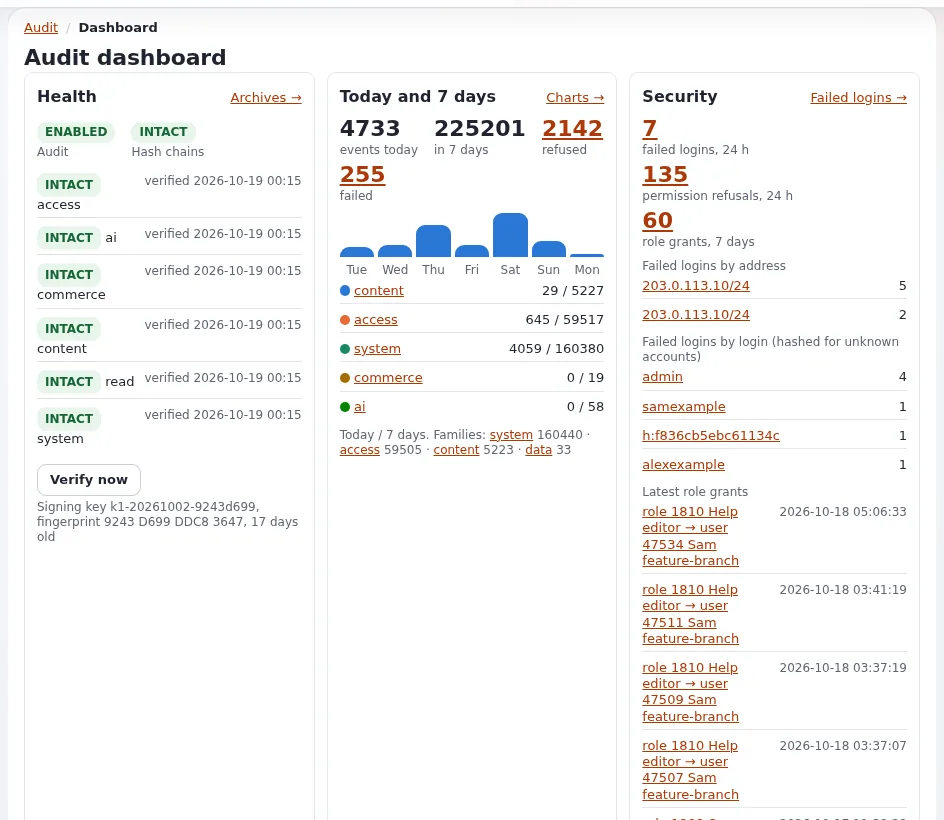
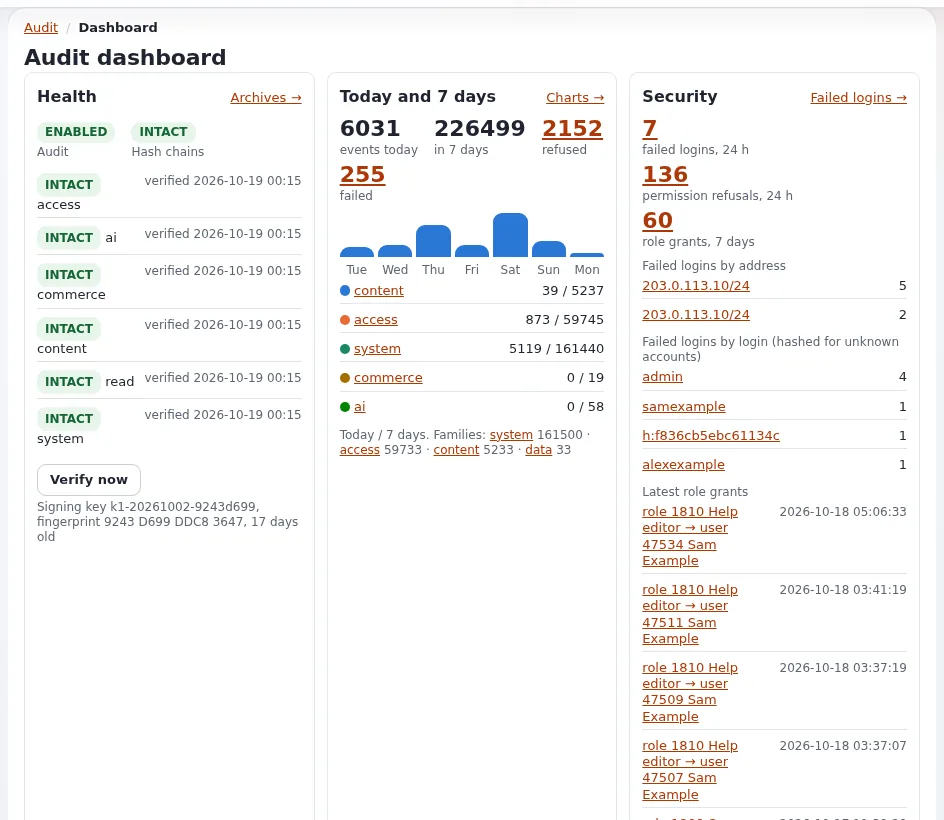
Updated: More screenshots for creator, designer, hosting and security help pages
Fifteen new screenshots: the RAD datatype and workflow event wizards, the
extensions on the About page, shared layouts, the help center, an item's
title, system information and caches for hosts, the public site's
breadcrumb, an item's full view, the sign-in pages of the administration
and the editor, and the audit trail for security hardening, and the dark
header for the admin tour. The audit trail screenshot of the hosting
pages is retaken with the names of test accounts shown as a neutral
example.

diff --git a/doc/help/security-hardening.md b/doc/help/security-hardening.md
@@ -71,6 +71,8 @@ Defending well means making all of these cheap to refuse and expensive to succee
 **The risk.** `/user/login` and `/admin/user/login` are the most attacked URLs of any site. Leaked passwords from other
 services work wherever people reuse them.
 
+![The sign-in page of the administration, the page brute force attacks aim at](images/help/sign-in-hardening.webp)
+
 **Built in.** Passwords are stored as bcrypt hashes (`HashType=php_default`). The sign-in costs the same for an unknown
 login as for a wrong password, and **Forgot your password?** answers the same for every address, so neither reveals
 which accounts exist. The audit trail's alert rules `brute_force` (20 failures from one network in 5 minutes) and
@@ -223,6 +225,8 @@ refused, as are `javascript:` and `data:` targets and the usual encoding tricks.
 
 **The risk.** A known vulnerability in an old release of the kernel, an extension, a Composer dependency, PHP or the
 database; a tampered file on the server.
+
+![The version of the installation at the top of the About page, the first thing to compare with the latest release](images/help/about-page-security.webp)
 
 **Built in.** Releases are immutable tags on Packagist and GitHub, with changelogs. **Setup** > **Upgrade check**
 compares every file with the release's `share/filelist.md5` ("Check file consistency") and the schema with the
@@ -382,6 +386,8 @@ for every rule is in the library's `docs/use-cases/exponential.md`.
 ## Watching: logs, the request classifier and the audit trail
 
 Hardening without watching only delays the moment you learn of an attack.
+
+![The audit trail: who did what and when, with filters by actor, action and time](images/help/audit-dashboard-security.webp)
 
 | Source | What it records | Where to read it |
 |---|---|---|

diff --git a/doc/help/creators/website-creators/site-packages-and-shipped-themes.md b/doc/help/creators/website-creators/site-packages-and-shipped-themes.md
@@ -13,6 +13,8 @@ This page is for website creators who want to know what they get from the instal
 package** is the starting point of a new installation: content classes, a design, content, roles and settings in one
 package. A **theme** is the design part, an extension you can keep using after the install.
 
+![The About page: the extensions of the installation, the shipped themes among them](../../images/creators/about-extensions.webp)
+
 ## Contents
 
 1. [What a site package contains](#what-a-site-package-contains)

diff --git a/doc/help/creators/website-creators/shared-header-and-footer.md b/doc/help/creators/website-creators/shared-header-and-footer.md
@@ -14,6 +14,8 @@ A layout marked **shared** is not mapped to pages by a rule; it exists to be bor
 be **linked** to one of its zones and then shows that layout's blocks instead of its own
 ([Shared layouts and linked zones](../../../bc/6.0/LAYOUTS.md#shared-layouts-and-linked-zones)).
 
+![Shared layouts with the Header / Footer layout outlined, the layout other layouts link their header and footer zones to](../../images/creators/shared-layout-header.webp)
+
 ## Contents
 
 1. [Why shared layouts](#why-shared-layouts)

diff --git a/doc/help/creators/website-creators/your-first-site-step-by-step.md b/doc/help/creators/website-creators/your-first-site-step-by-step.md
@@ -14,6 +14,8 @@ empty directory to a site with your own content and one changed template. Each s
 check. It uses the defaults on purpose: SQLite (no database server), the default site package and Velocity. For a
 real site, read [Choosing an install method](choosing-an-install-method.md) afterwards.
 
+![The help center in the administration, where this page and the rest of the website creators' path are](../../images/creators/help-dashboard-first-site.webp)
+
 ## Contents
 
 1. [Before you start](#before-you-start)

diff --git a/doc/help/creators/app-creators/writing-a-workflow-event-type.md b/doc/help/creators/app-creators/writing-a-workflow-event-type.md
@@ -13,6 +13,8 @@ This page is for application creators who add a step administrators can put into
 on publish, check a field before publishing, wait for an outside approval. **Setup > RAD > Workflow event extension**
 (`/setup/workflowevent`) writes a working skeleton ([RAD tools](rad-tools.md)).
 
+![Setup, RAD, the workflow event wizard, which writes the skeleton of an event type](../../images/creators/workflow-event-wizard.webp)
+
 ## Contents
 
 1. [Files and registration](#files-and-registration)

diff --git a/doc/help/creators/website-creators/seo-basics.md b/doc/help/creators/website-creators/seo-basics.md
@@ -12,6 +12,8 @@ type: help
 This page is for website creators who want a site search engines understand. Most of what matters is already built in
 or one extension away; this page lists it as a checklist and points to the page that explains each item.
 
+![An article's page in the administration: its title, which also makes its address and the page title in search results](../../images/creators/seo-url-alias.webp)
+
 ## Contents
 
 1. [What Exponential gives you](#what-exponential-gives-you)

diff --git a/doc/help/creators/app-creators/extension-anatomy.md b/doc/help/creators/app-creators/extension-anatomy.md
@@ -13,6 +13,8 @@ This page is for application creators who want to know what goes where in an ext
 under `extension/` (or an additional extension directory); the kernel finds its parts by directory names and by the
 settings the extension carries ([Extensions](../../../guides/extensions.md)).
 
+![The About page of the administration, where an extension's version and license show](../../images/creators/about-extensions.webp)
+
 ## Contents
 
 1. [The directory layout](#the-directory-layout)

diff --git a/doc/help/hosting/models/managed-hosting.md b/doc/help/hosting/models/managed-hosting.md
@@ -15,6 +15,8 @@ answers which tasks such a service usually takes over, which tool in Exponential
 who does what, and what the project's steward 7x offers itself. It names no prices or service levels: those are
 choices a host makes ([SLA options](../business/sla-options.md)).
 
+![Setup, System information: the PHP, database and web server a managed host keeps up to date](../../images/hosting/system-info-managed.webp)
+
 ## Contents
 
 1. [What "managed" can cover](#what-managed-can-cover)

diff --git a/doc/help/designers/templates/view-modes.md b/doc/help/designers/templates/view-modes.md
@@ -14,6 +14,8 @@ This page is for designers who plan the templates of a design. The same article 
 a list, as a teaser in a block, as an embed in another text. Each of these is a **view mode**, and each has its own
 template.
 
+![The View tab of an article in the administration, its full view drawn by the administration design's templates](../../images/designers/admin-full-view.webp)
+
 ## Contents
 
 1. [The common view modes](#the-common-view-modes)

diff --git a/doc/help/creators/app-creators/packaging-as-an-extension.md b/doc/help/creators/app-creators/packaging-as-an-extension.md
@@ -12,6 +12,8 @@ type: help
 This page is for application creators who want others (or other installations) to install their application. An
 extension that installs with one `composer require`, activates with one setting and documents itself is easy to adopt.
 
+![The About page lists every extension with what its ezinfo.php or extension.xml says](../../images/creators/about-extensions.webp)
+
 ## Contents
 
 1. [The repository](#the-repository)

diff --git a/doc/help/hosting/panels/cron-and-shell-access.md b/doc/help/hosting/panels/cron-and-shell-access.md
@@ -14,6 +14,8 @@ jobs through a panel's cron page, and who decide how much shell access a plan in
 and how often, which PHP binary a cron line must use, what the administration's own Cronjobs page needs, and what a
 customer can do without a shell.
 
+![Setup, Cache management: what to use when a hosting panel gives no shell](../../images/hosting/cache-from-panel.webp)
+
 ## Contents
 
 1. [Why Exponential needs cron](#why-exponential-needs-cron)

diff --git a/doc/help/creators/app-creators/versions-and-releases.md b/doc/help/creators/app-creators/versions-and-releases.md
@@ -12,6 +12,8 @@ type: help
 This page is for application creators who publish releases. The rules are those Exponential's own extensions follow;
 they keep installations able to tell which code they run.
 
+![The Extensions part of the About page: each extension with its version, license and website](../../images/creators/about-extensions.webp)
+
 ## Contents
 
 1. [A published version is permanent](#a-published-version-is-permanent)
